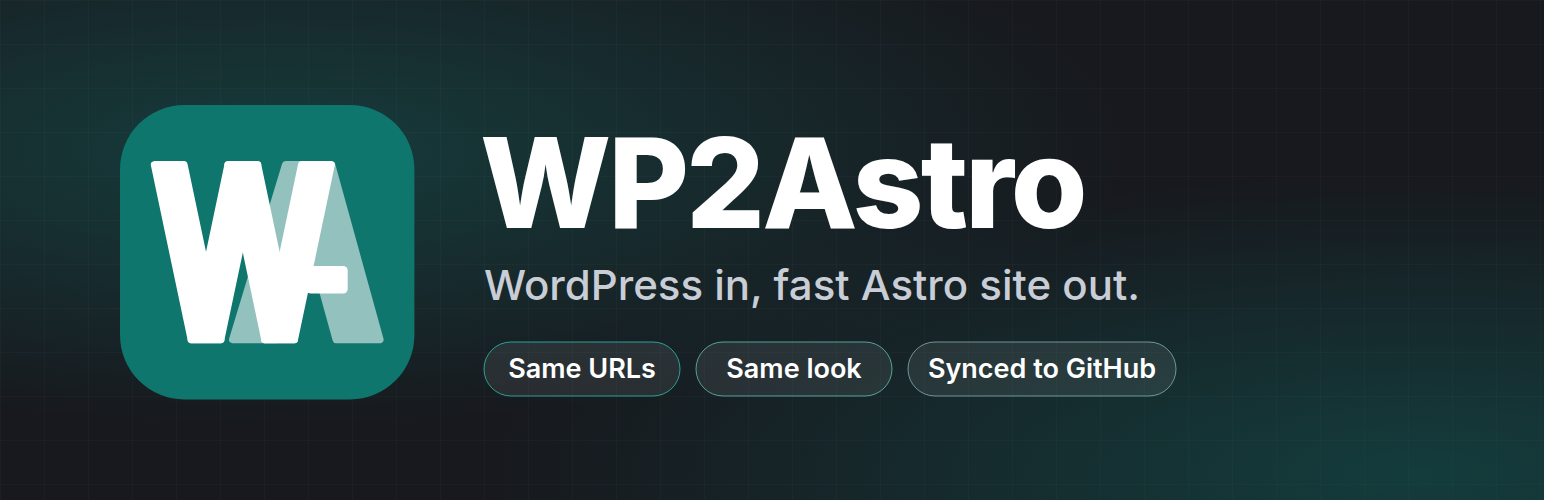
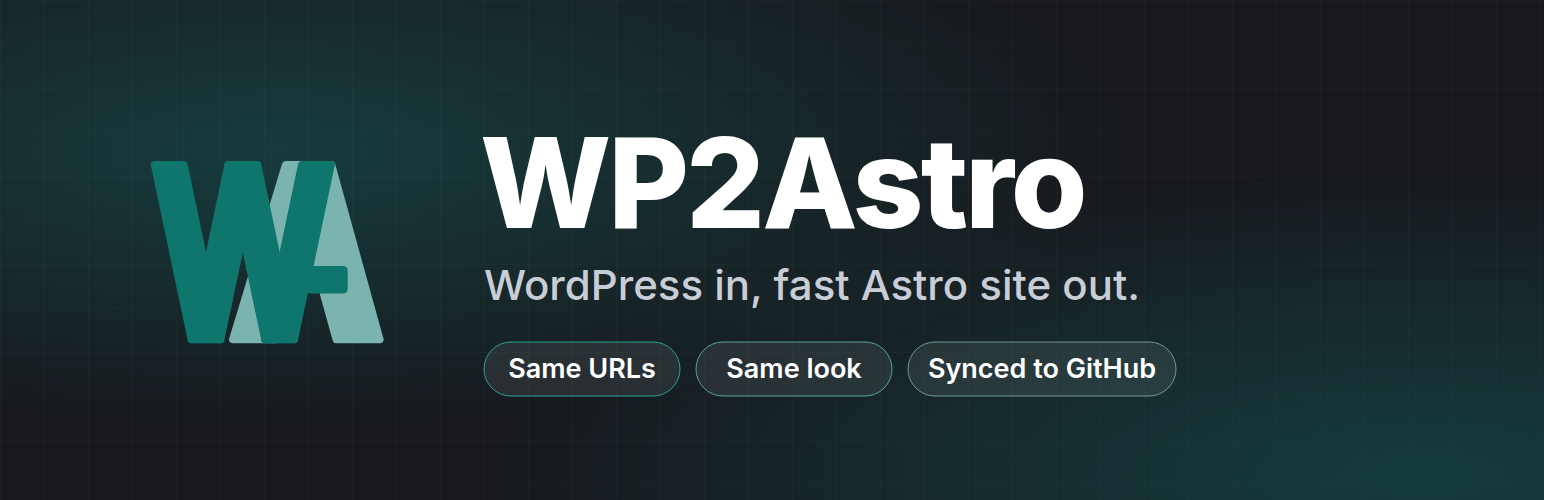
Use the transparent teal WA glyph instead of the tile
assets/logo.svg is wa-glyph-teal (no tile), so the dashboard and the
WordPress.org icons show the glyph on a transparent background. The
banner shows the same glyph.

Changed region(s): [[0.0622, 0.21, 0.2798, 0.81]]

diff --git a/CHANGELOG.md b/CHANGELOG.md
@@ -2,7 +2,7 @@
 
 ## Unreleased
 
-- New logo: the teal WA mark, in the dashboard, the admin menu, the plugin icons and the banner.
+- New logo: the teal WA glyph, in the dashboard, the admin menu, the plugin icons and the banner.
 - **Local model** provider: run open models such as Gemma, Llama or Qwen on your own server (Ollama, LM Studio,
   llama.cpp, vLLM) through any OpenAI-compatible **Server URL**.
 - OpenRouter's default model is now the open `google/gemma-4-31b-it` (was `anthropic/claude-haiku-5.5`).
